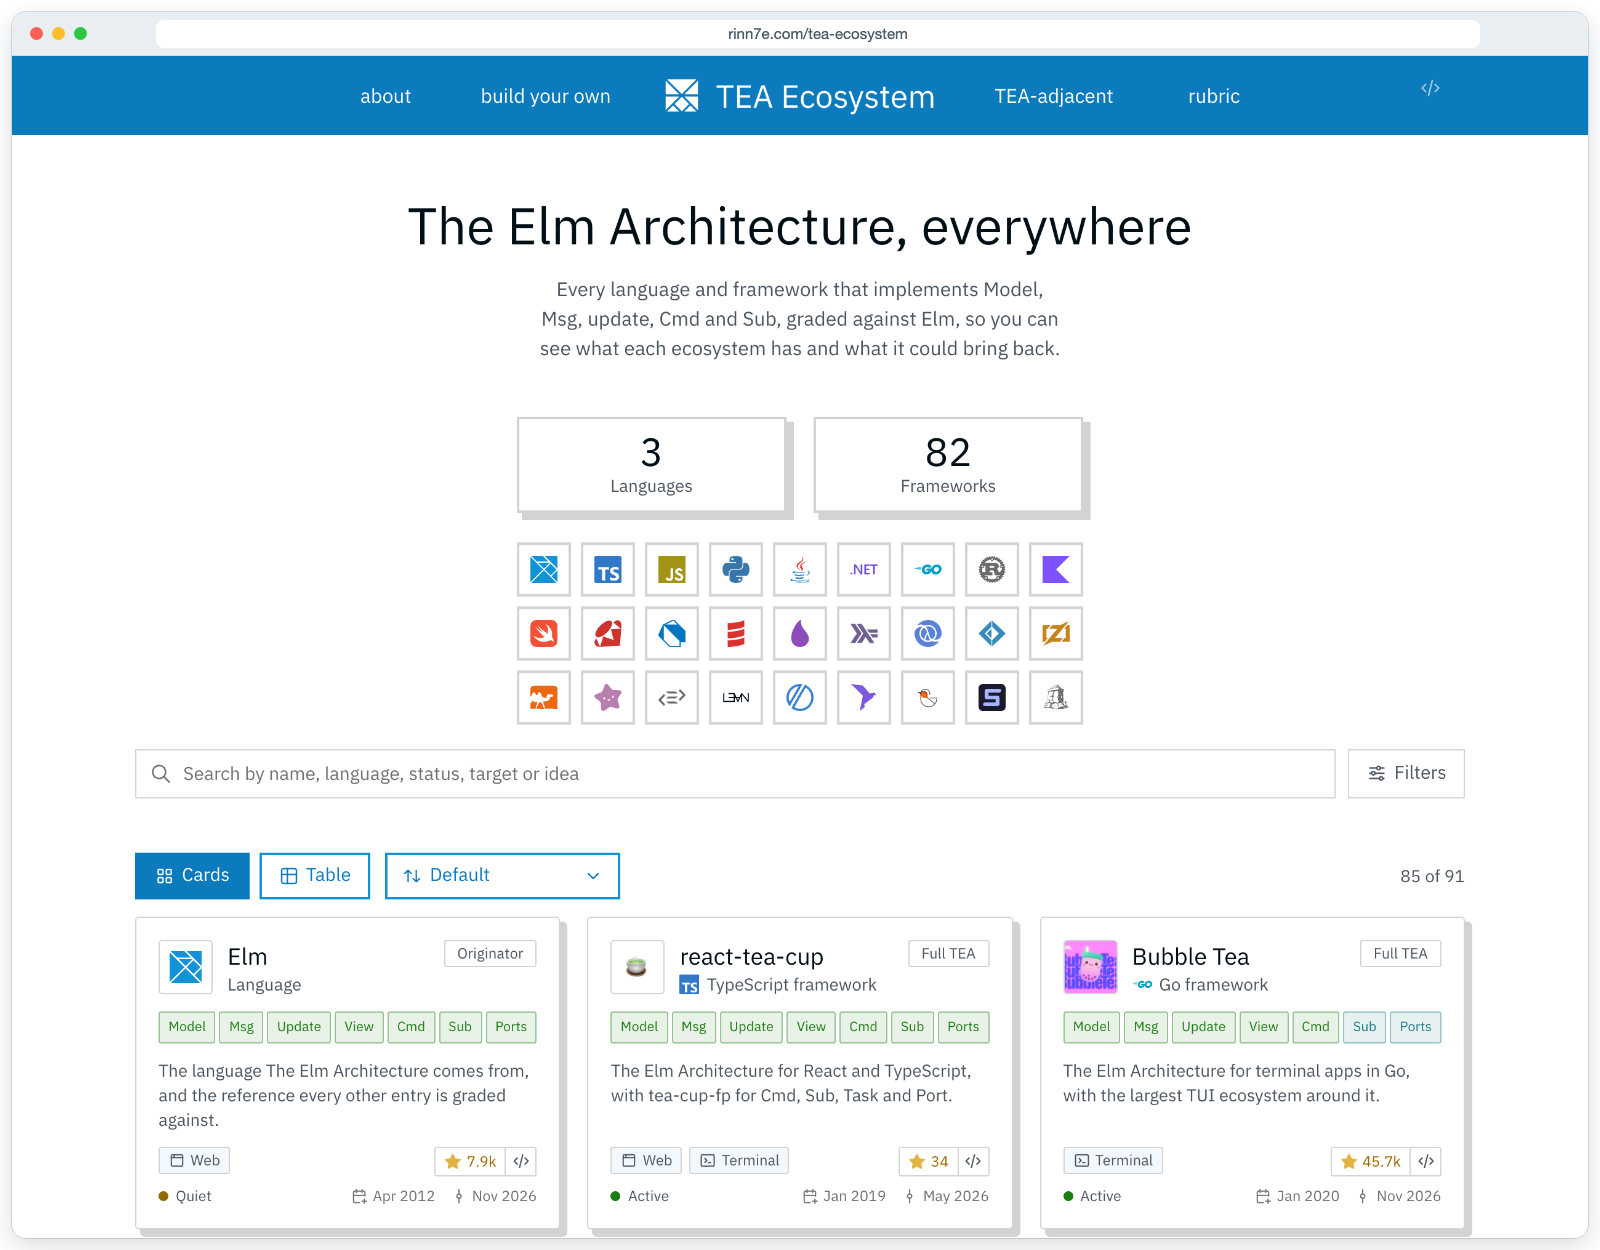
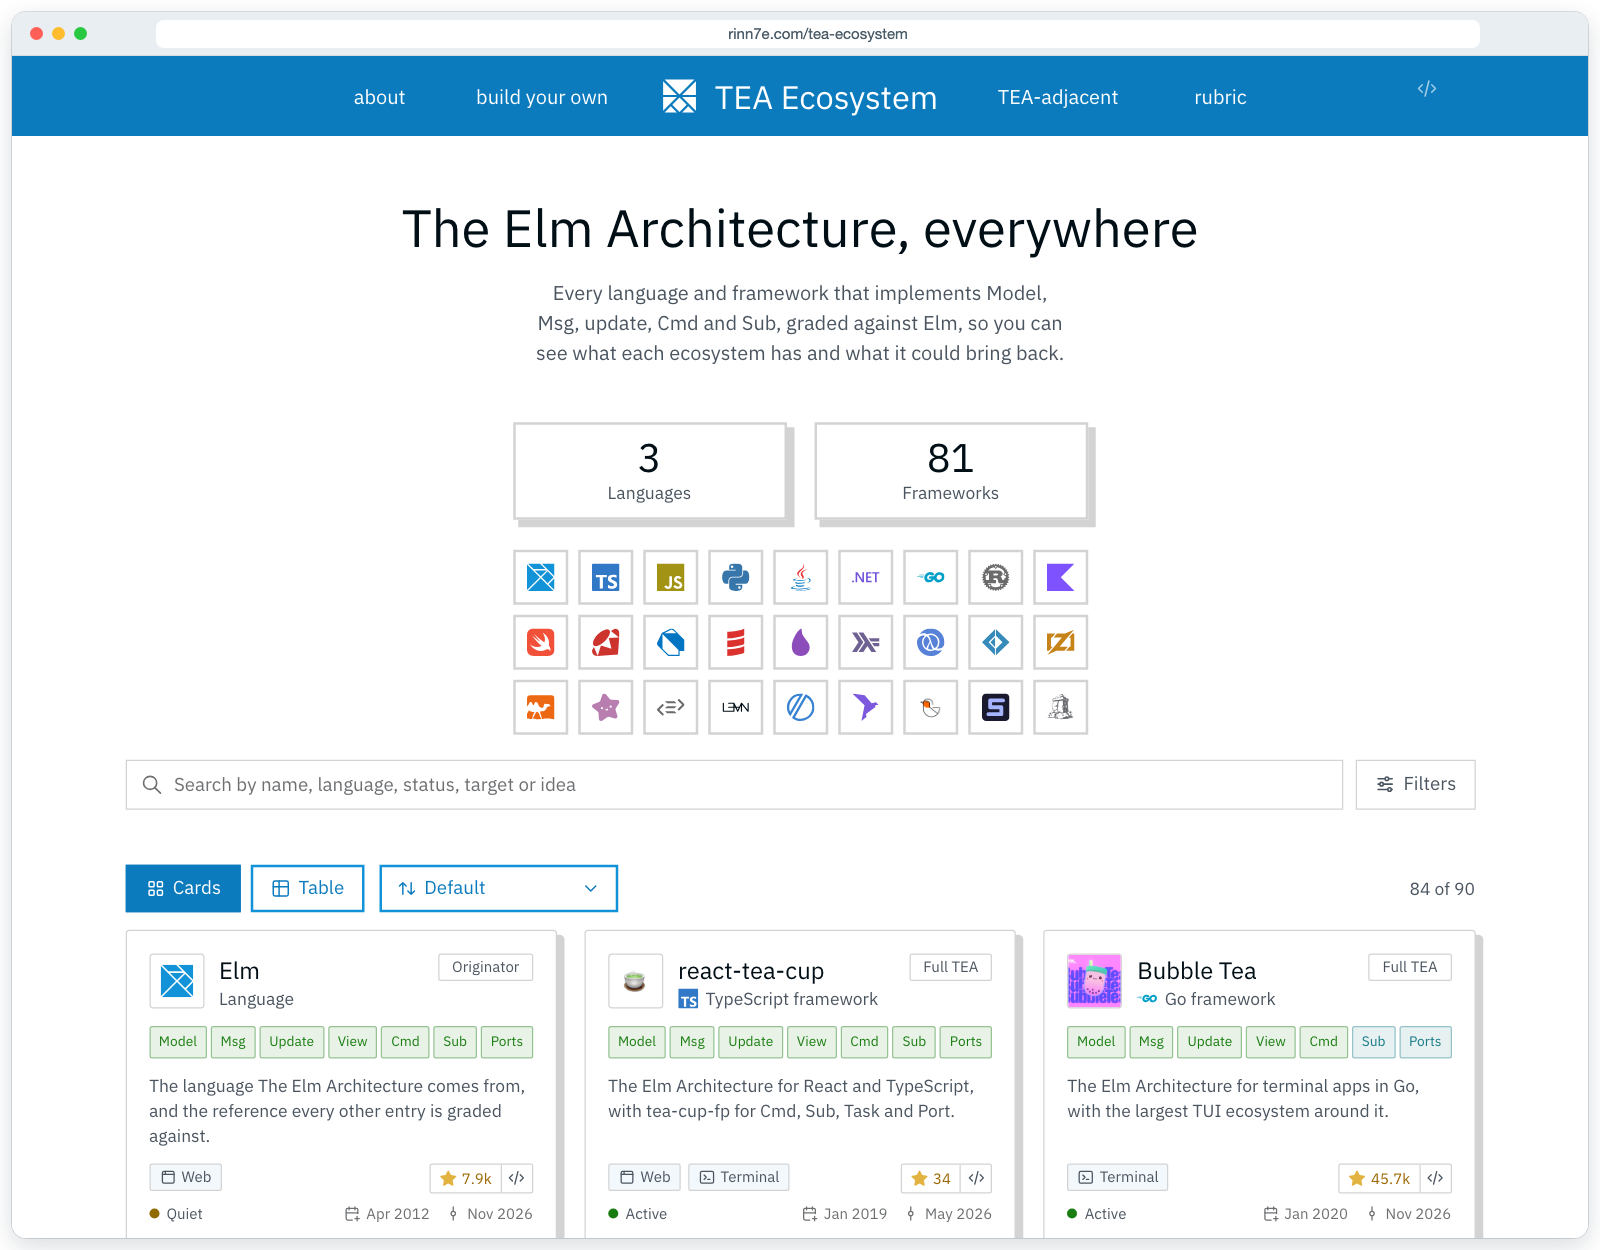
Write down the strict rule of the tiers and the moves it made
`doc/analysis.md` gives the port-back test in section 3, rewrites
decision 1 (shape, for every tier) and adds decision 7 with the moves,
and drops the open question. The code convention and the README say
how a superset and a TEA-adjacent library write their notes, and the
counts and the screenshot of the README follow the catalog (90
entries, 36 TEA-adjacent).

Closes #8

diff --git a/doc/analysis.md b/doc/analysis.md
@@ -37,19 +37,21 @@ The concepts:
 Tiers:
 
 1. Full TEA: Model, Msg, Update, Cmd `native`; Sub `native` or `managed`.
-2. TEA superset: full TEA plus more (nested stateful components, SSR and hydration, server-side TEA, typeclasses, and so on).
-3. TEA-adjacent (separate page): fails at least one hard requirement. Each entry states which one.
+2. TEA superset: full TEA plus something beyond it (nested stateful components, SSR and hydration, server-side TEA, typeclasses, and so on), named in its notes. An entry with nothing beyond TEA is full TEA.
+3. TEA-adjacent (separate page): fails at least one hard requirement. Each entry states which one, in its first note.
 
-Note on the examples named at the start: Miso passes cleanly (update schedules effects with `io`, it does not run them). Halogen does not pass the strict reading of point 3: `handleAction` runs effects directly in the `HalogenM` monad, and subscriptions are started imperatively. Halogen is as powerful as TEA but not shaped like it. The site grades this as a fourth grade, `equivalent` (same power, another shape), which a superset may use for update, Cmd and Sub (decision 1 in section 10).
+The test behind the tiers is the port-back test: a program written with an entry of the catalog ports back to Elm in the same shape. Not the same code, but the gist: its model becomes a `Model`, its messages a `Msg`, its update an Elm `update` whose effects go into the `Cmd` it returns, and its subscriptions Elm `subscriptions`, with no part restructured. What a superset adds (components, SSR) may have no Elm counterpart, but its core loop ports as it is.
+
+Note on the examples named at the start: Miso passes cleanly (update schedules effects with `io`, it does not run them). Halogen does not: `handleAction` runs effects directly in the `HalogenM` monad, and subscriptions are started imperatively, so porting a Halogen program back to Elm means pulling every effect out into a `Cmd`, a redesign rather than a port. Halogen is as powerful as TEA but not shaped like it. The site grades such a part with a fourth grade, `equivalent` (same power, another shape), which describes the part and never qualifies an entry for a tier (decision 1 in section 10), so Halogen is TEA-adjacent.
 
 ## 4. Candidate list
 
 The list lives in the data files of the site, not in this document:
 
-- `data/frameworks.json`: 91 entries in 27 languages, each with its rubric grades, tier, targets, status and notes.
-- `data/adjacent.json`: 35 TEA-adjacent libraries, each with the hard requirement it misses and why.
+- `data/frameworks.json`: 90 entries in 27 languages, each with its rubric grades, tier, targets, status and notes.
+- `data/adjacent.json`: 36 TEA-adjacent libraries, each with the hard requirement it misses and why.
 
-The tests in CI (`tests/common/data/catalog.test.ts`) decode both files and check that every framework holds the rules of its tier (`rubricProblemsOf`).
+The tests in CI (`tests/common/data/catalog.test.ts`) decode both files and check that every entry holds the rules of its tier (`rubricProblemsOf`): no entry of the catalog misses a requirement of full TEA, and every entry of the adjacent list misses one and says which.
 
 Grades come from memory plus a light web check on 2026-11-13. An entry is `verified: true` only once every grade was checked against its docs or source (40 frameworks and 6 TEA-adjacent libraries by 2026-11-14, starting with Elm, Miso, Lustre, react-tea-cup, Bubble Tea and Mobius); the page of every other entry says it is not yet checked. Checking every entry against its docs, with an evidence link per grade, is the next data task.
 
@@ -130,7 +132,7 @@ The taxonomy is the hardest design work of the project: too coarse and every cel
 
 Decided on 2026-11-13:
 
-1. Shape or capability: capability for supersets. A fourth grade, `equivalent`, marks a concept reached in another shape; a superset may have it for update, Cmd and Sub, a full TEA entry may not. Halogen is a superset with that note.
+1. Shape or capability: shape, for every tier (changed on 2026-11-14, decision 7 below). A fourth grade, `equivalent`, marks a concept reached in another shape; it describes the concept and never qualifies an entry for a tier, the superset tier included. At first a superset could have it for update, Cmd and Sub, and Halogen was a superset with that note; it is TEA-adjacent now.
 2. A `managed` Sub is enough for full TEA, so Bubble Tea, TCA, Mobius and Lustre are in.
 3. A headless loop (no view) is allowed; its view grade is `missing`.
 4. Gren and Lamdera have entries of their own in the Elm family; elm-pages and elm-land stay libraries of the Elm column.
@@ -145,10 +147,7 @@ Decided on 2026-11-14:
 4. Every box of a filter ticked narrows nothing, as no box ticked does, but stays ticked on screen and counts on the Filters button.
 5. Every entry has a `repo`, which falls back to its website when its source is not public, and the day it was added (`discoveredAt`): an entry added after the first list wears "Recently added" for 30 days.
 6. The page of an entry lists the other entries in any of its languages from both lists, each list under its own label.
-
-Still open:
-
-1. The rubric is not yet applied the same way to every entry (Brick and `@xstate/store` fail a tier that their grades seem to meet): issue #8 proposes a stricter rule.
+7. The strict rule (issue #8): `equivalent` never qualifies a tier, judged by the port-back test (section 3). Every tier of the catalog needs Model, Msg, update and Cmd `native` and Sub `native` or `managed`; a superset differs from full TEA only by what it adds, named in a note that starts with `Superset: `. Halogen moved to the adjacent page (it misses update, Cmd and Sub), and libcosmic from superset to full TEA (what it adds on iced is a toolkit, not a part of the architecture). Every TEA-adjacent library starts its notes with the requirements it misses (`Misses Cmd: ...`), and a test checks both lists against the rule.
 
 ## 11. Phases
 

diff --git a/README.md b/README.md
@@ -26,7 +26,7 @@ A catalog of The Elm Architecture across languages: every language and framework
 
 The site has:
 
-- **Catalog**: 91 entries in 27 languages, as cards or as a table of grades, filtered by tier, target, status and search, and sorted by popularity, by dates or by the day an entry was added. A filter that also matches archived entries, or entries of the TEA-adjacent list, says so and links to them.
+- **Catalog**: 90 entries in 27 languages, as cards or as a table of grades, filtered by tier, target, status and search, and sorted by popularity, by dates or by the day an entry was added. A filter that also matches archived entries, or entries of the TEA-adjacent list, says so and links to them.
 - **A page per framework**: its grade on each part of TEA, with notes, and the other entries in its languages from both lists.
 - **Rubric**: what counts as TEA, the four grades and the three tiers.
 - **TEA-adjacent**: libraries that share the vocabulary but miss a hard requirement (Redux, NgRx, re-frame, ...), graded the same way and shown with the same listing as the catalog, filtered by what they lack.
@@ -70,7 +70,7 @@ pnpm run build
 
 ## Add or fix a framework
 
-Edit `data/frameworks.json` (or `data/adjacent.json` for a library that misses a hard requirement). Give it the day you add it as `discoveredAt` (`YYYY-MM-DD`; a new entry shows as "Recently added" for 30 days), its `repo` (the full URL of its public repository, on GitHub, GitLab, Codeberg or another Gitea; only when its source is not public, its website instead, with the same URL in `website`), its `website` when it has one apart from the repository, its `source` when it is one package of a monorepo (the full URL of its directory in `repo`), and run `GITHUB_TOKEN=<token> node scripts/fetch-repo-stats.mjs` to fill its stars and its created and updated dates; a logo goes in `public/logo/` and is named in `logo`. Each grade is `native`, `managed`, `equivalent` or `missing`; the [rubric](doc/analysis.md#3-inclusion-rubric) says what each means. `pnpm run test` checks that the file decodes and that every entry holds the rules of its tier.
+Edit `data/frameworks.json` (or `data/adjacent.json` for a library that misses a hard requirement). Give it the day you add it as `discoveredAt` (`YYYY-MM-DD`; a new entry shows as "Recently added" for 30 days), its `repo` (the full URL of its public repository, on GitHub, GitLab, Codeberg or another Gitea; only when its source is not public, its website instead, with the same URL in `website`), its `website` when it has one apart from the repository, its `source` when it is one package of a monorepo (the full URL of its directory in `repo`), and run `GITHUB_TOKEN=<token> node scripts/fetch-repo-stats.mjs` to fill its stars and its created and updated dates; a logo goes in `public/logo/` and is named in `logo`. Each grade is `native`, `managed`, `equivalent` or `missing`; the [rubric](doc/analysis.md#3-inclusion-rubric) says what each means (`equivalent` describes a part and never qualifies a tier). A superset names what it adds beyond TEA in a note that starts with `Superset: `; a TEA-adjacent library starts its notes with the requirements it misses (`Misses Cmd and Sub: ...`). `pnpm run test` checks that the file decodes and that every entry holds the rules of its tier.
 
 ## Deploy
 

diff --git a/doc/code-convention.md b/doc/code-convention.md
@@ -110,7 +110,7 @@ A fact with an owner gets a type only its owner makes, so a write that skips the
 ## Data files
 
 - The catalog is `data/frameworks.json` and `data/adjacent.json`, decoded at load with the `io-ts` codecs of `src/common/type/framework.ts` (`decodeOrThrow` in `src/common/data/catalog.ts`). The tests decode them in CI, so a file that does not decode never ships.
-- Every framework must hold the rules of its tier (`rubricProblemsOf`): full TEA needs Model, Msg, update and Cmd `native` and Sub `native` or `managed`; a superset may have `equivalent` for update, Cmd and Sub. A library that fails goes to `data/adjacent.json` with the requirement it misses and why.
+- Every entry must hold the rules of its tier (`rubricProblemsOf`). Every tier of the catalog needs the requirements of full TEA (`missedRequirementsOf`): Model, Msg, update and Cmd `native`, Sub `native` or `managed`. An `equivalent` grade describes a part and never meets a requirement. A superset is full TEA plus something beyond it, named in a note that starts with `Superset: `; an entry with nothing beyond TEA is full TEA. A library that misses a requirement goes to `data/adjacent.json`, and its first note says which and why (`Misses Cmd and Sub: ...`, in the order Model, Msg, update, Cmd, Sub).
 - An `id` is the URL segment of the page (`/framework/<id>`): lowercase words joined by `-`, unique across both files, never renamed.
 - `verified: true` only when every grade of the entry was checked against its docs or source.
 - `discoveredAt` is the day the entry was added to the catalog (`YYYY-MM-DD`), on every entry: the day of the commit that adds it. An entry added after the first list (`FIRST_LIST_DAY`, 2026-11-13) shows the ribbon "Recently added" on its card and its page for `RECENT_DAYS` (30) days (`isRecentlyAdded`); on its page the ribbon also holds the day it was added (`addedView`), which an older entry shows as a plain date in the same place; the root passes the first day that still counts (`recentSinceOf`), so a view is drawn again once a day, not every minute. The table shows the day in its Added column instead of a ribbon.
